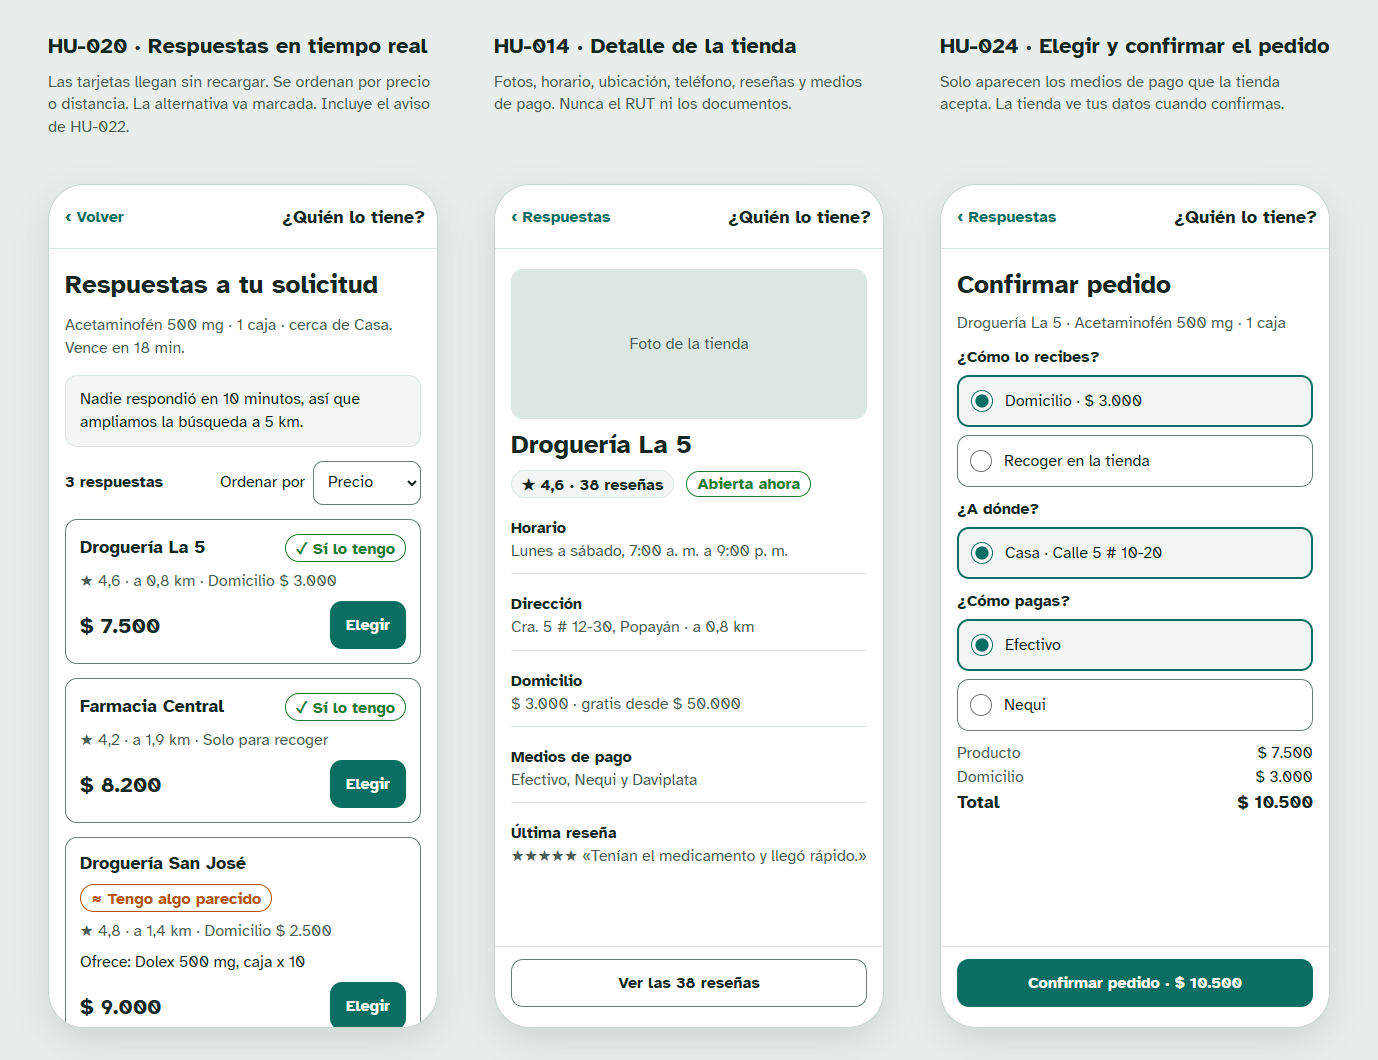
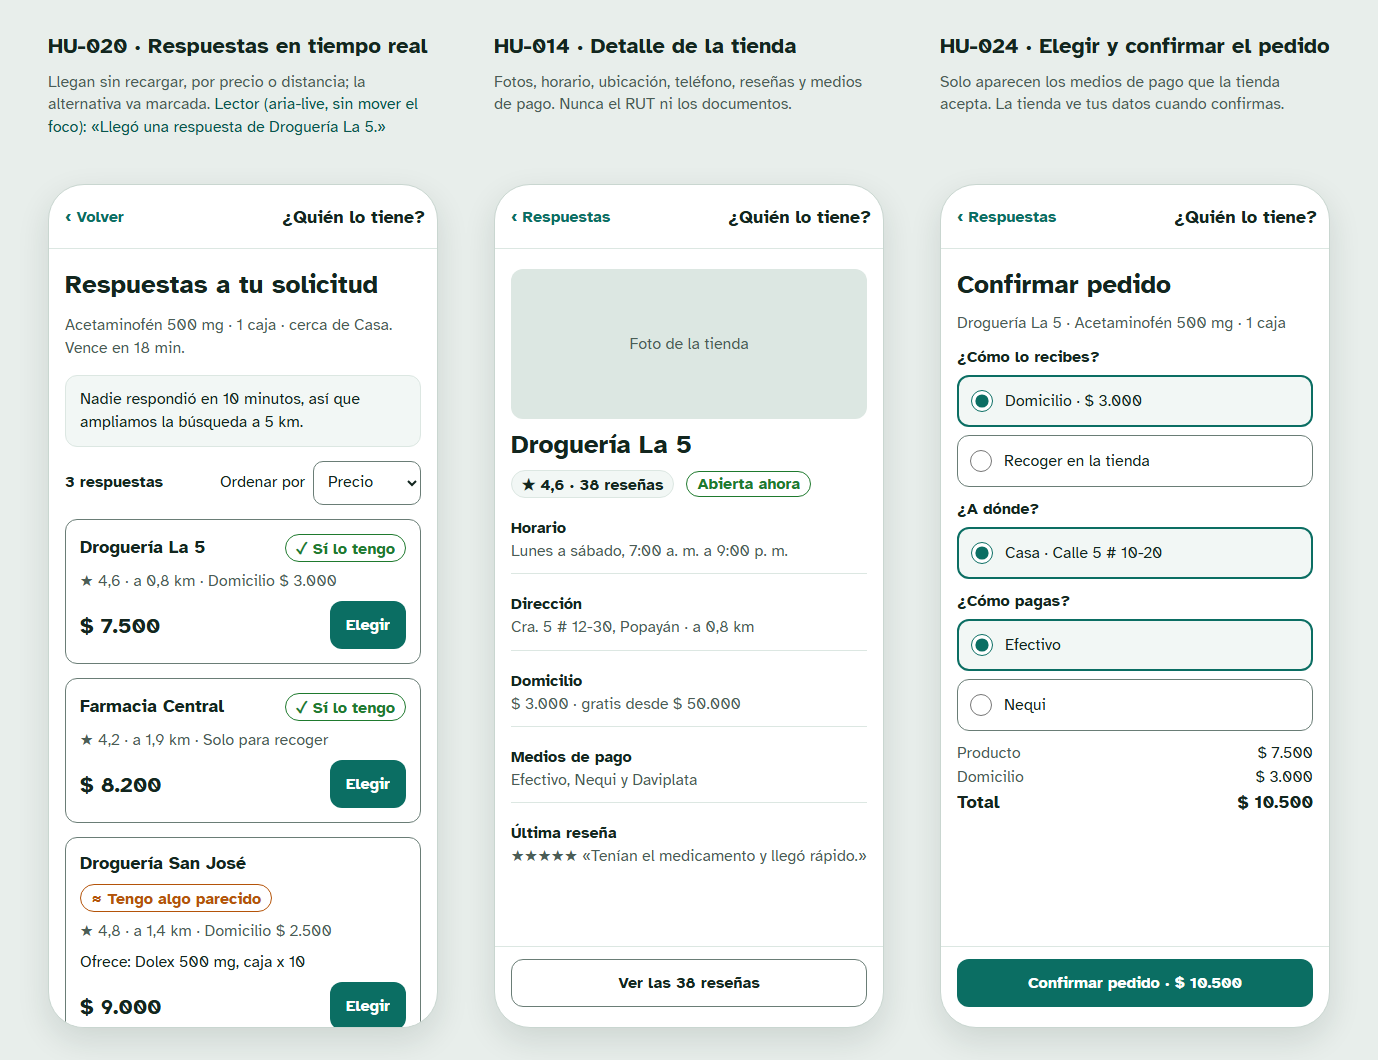
docs(diseno): anotaciones de accesibilidad en los tableros 01, 02 y 05 y cierre de C-20 (#77)
Qué anuncia el lector en HU-018, HU-020 y HU-027, y nota del lienzo sobre
ayuda en el mismo lugar (3.2.6) y foco no tapado (2.4.11). README de
mockups 0.4 y bitácora 1.15.

Changed region(s): [[0.0312, 0.0623, 0.312, 0.1245]]

diff --git a/docs/diseno/mockups/fuente/TiendaSolicitudes.dc.html b/docs/diseno/mockups/fuente/TiendaSolicitudes.dc.html
@@ -16,6 +16,7 @@ a{color:#0b6e63}a:hover{color:#08564d}
 .col{display:flex;flex-direction:column;gap:12px;width:390px;height:996px}
 .etq{margin:0;font-size:22px;font-weight:700}
 .etq-nota{margin:0;font-size:16px;line-height:1.4;color:#4b5d56;min-height:44px}
+.a11y{color:#08564d}
 .tel{margin-top:auto;flex:none;box-sizing:border-box;width:390px;height:844px;background:#ffffff;border-radius:36px;border:1px solid #c9d6d0;overflow:hidden;display:flex;flex-direction:column;box-shadow:0 12px 32px rgba(19,38,31,0.12);position:relative}
 .barra{box-sizing:border-box;height:64px;flex:none;display:flex;align-items:center;justify-content:space-between;gap:8px;padding:0 12px 0 16px;border-bottom:1px solid #dce7e2}
 .marca{margin:0;font-weight:700;font-size:18px}
@@ -58,7 +59,7 @@ input[type=text],textarea{box-sizing:border-box;min-height:48px;border:1px solid
 
 <div class="col">
 <p class="etq">HU-018, HU-030 · Solicitudes nuevas</p>
-<p class="etq-nota">Llegan en 3 s o menos. Las urgentes van primero y suenan. Sin datos del cliente. «No lo tengo» en 1 toque; el aviso dura al menos 5 s y se puede cerrar.</p>
+<p class="etq-nota">Llegan en 3 s o menos; las urgentes van primero y suenan. <span class="a11y">Lector: «Solicitud urgente: «Salbutamol inhalador». Está primero en tu lista.»</span></p>
 <div class="tel">
 <div class="barra"><p class="marca">Droguería La 5</p><span class="estado"><svg width="12" height="12" viewBox="0 0 12 12" aria-hidden="true"><circle cx="6" cy="6" r="6" fill="#1f7a2e"></circle></svg>Abierta</span></div>
 <div class="cont">

diff --git a/docs/diseno/mockups/fuente/Main.dc.html b/docs/diseno/mockups/fuente/Main.dc.html
@@ -16,6 +16,7 @@ a{color:#0b6e63}a:hover{color:#08564d}
 .col{display:flex;flex-direction:column;gap:12px;width:390px;height:996px}
 .etq{margin:0;font-size:22px;font-weight:700}
 .etq-nota{margin:0;font-size:16px;line-height:1.4;color:#4b5d56;min-height:44px}
+.a11y{color:#08564d}
 .tel{margin-top:auto;flex:none;box-sizing:border-box;width:390px;height:844px;background:#ffffff;border-radius:36px;border:1px solid #c9d6d0;overflow:hidden;display:flex;flex-direction:column;box-shadow:0 12px 32px rgba(19,38,31,0.12)}
 .barra{box-sizing:border-box;height:64px;flex:none;display:flex;align-items:center;justify-content:space-between;gap:8px;padding:0 12px 0 16px;border-bottom:1px solid #dce7e2}
 .marca{margin:0;font-weight:700;font-size:18px}
@@ -52,7 +53,7 @@ select{box-sizing:border-box;min-height:44px;border:1px solid #6a7d76;border-rad
 
 <div class="col">
 <p class="etq">HU-020 · Respuestas en tiempo real</p>
-<p class="etq-nota">Las tarjetas llegan sin recargar. Se ordenan por precio o distancia. La alternativa va marcada. Incluye el aviso de HU-022.</p>
+<p class="etq-nota">Llegan sin recargar, por precio o distancia; la alternativa va marcada. <span class="a11y">Lector (aria-live, sin mover el foco): «Llegó una respuesta de Droguería La 5.»</span></p>
 <div class="tel">
 <div class="barra"><button class="volver" type="button" aria-label="Volver a mis solicitudes">‹ Volver</button><p class="marca">¿Quién lo tiene?</p></div>
 <div class="cont">

diff --git a/docs/diseno/mockups/fuente/ClienteOrden.dc.html b/docs/diseno/mockups/fuente/ClienteOrden.dc.html
@@ -16,6 +16,7 @@ a{color:#0b6e63}a:hover{color:#08564d}
 .col{display:flex;flex-direction:column;gap:12px;width:390px;height:996px}
 .etq{margin:0;font-size:22px;font-weight:700}
 .etq-nota{margin:0;font-size:16px;line-height:1.4;color:#4b5d56;min-height:44px}
+.a11y{color:#08564d}
 .tel{margin-top:auto;flex:none;box-sizing:border-box;width:390px;height:844px;background:#ffffff;border-radius:36px;border:1px solid #c9d6d0;overflow:hidden;display:flex;flex-direction:column;box-shadow:0 12px 32px rgba(19,38,31,0.12)}
 .barra{box-sizing:border-box;height:64px;flex:none;display:flex;align-items:center;justify-content:space-between;gap:8px;padding:0 12px 0 16px;border-bottom:1px solid #dce7e2}
 .marca{margin:0;font-weight:700;font-size:18px}
@@ -53,7 +54,7 @@ input[type=text]{box-sizing:border-box;min-height:48px;border:1px solid #6a7d76;
 
 <div class="col">
 <p class="etq">HU-027, HU-029, HU-032 · Pedido en curso</p>
-<p class="etq-nota">El cliente ve cada cambio de estado. Puede cancelar mientras no haya salido y escribir por WhatsApp solo después de elegir.</p>
+<p class="etq-nota">Cada cambio llega sin recargar. Cancelar mientras no haya salido. <span class="a11y">Lector (aria-live, sin mover el foco): «Tu pedido ahora está: En camino.»</span></p>
 <div class="tel">
 <div class="barra"><button class="volver" type="button" aria-label="Volver a mis pedidos">‹ Mis pedidos</button><p class="marca">¿Quién lo tiene?</p></div>
 <div class="cont">

diff --git a/docs/diseno/mockups/README.md b/docs/diseno/mockups/README.md
@@ -1,6 +1,6 @@
 # Mockups de las historias pendientes
 
-> **Control del documento** · Versión 0.3 · 21/11/2026 · Responsable: Monica Anyi Cajas Mellizo (UX · frontend) · Estado: En revisión · Revisión: Pedro, 13/11/2026 (PR #33)
+> **Control del documento** · Versión 0.4 · 21/11/2026 · Responsable: Monica Anyi Cajas Mellizo (UX · frontend) · Estado: En revisión · Revisión: Pedro, 13/11/2026 (PR #33)
 
 Mockups en alta fidelidad de las historias que todavía no tienen pantalla (Sprint 2 en adelante). Las pantallas del Sprint 1 ya están construidas en `frontend/`.
 
@@ -12,7 +12,7 @@ Mockups en alta fidelidad de las historias que todavía no tienen pantalla (Spri
 ## Fuente
 
 - **`fuente/`** guarda el lienzo editable: un archivo `.dc.html` por tablero y `canvas.json` con su posición. Es la fuente de verdad; los PNG se generan desde ahí.
-- Los PNG salieron de los archivos de `fuente/` de su versión, capturados con Edge sin interfaz al tamaño de cada tablero (los 01 a 10 en la 0.2 y los 11 a 13 en la 0.3).
+- Los PNG salieron de los archivos de `fuente/` de su versión, capturados con Edge sin interfaz al tamaño de cada tablero (los 01 a 10 en la 0.2, los 11 a 13 en la 0.3 y los 01, 02 y 05 de nuevo en la 0.4).
 - Los `.dc.html` necesitan el editor de lienzo para verse con sus marcos; abiertos solos en el navegador muestran el contenido sin estilos de marco.
 
 ## Tableros
@@ -67,9 +67,15 @@ Hecho en los tableros 11 a 13:
 - Confirmación de HU-029 (cancelar con motivo) y de HU-037 (suspender con motivo), en el mismo lugar y sin diálogo, y deshacer en HU-038.
 - Anotaciones de accesibilidad: nombre accesible de los botones repetidos («Repetir Paracetamol 500 mg»), qué anuncia cada pantalla nueva (aviso de HU-023 asociado al campo, «quedan 5 minutos» en HU-025, `role="log"` en HU-033, «Quitaste…» en HU-038), remitente y hora en cada mensaje del chat, y a dónde va el foco al confirmar.
 
+Hecho en la versión 0.4 (C-20):
+
+- Qué anuncia el lector de pantalla, sin mover el foco, en los tableros 01, 02 y 05 (texto en verde bajo el título): HU-020 «Llegó una respuesta de Droguería La 5.», HU-027 «Tu pedido ahora está: En camino.» y HU-018 «Solicitud urgente: «Salbutamol inhalador». Está primero en tu lista.». Son los mismos textos de la app.
+- Nota «Accesibilidad en todas las pantallas» en el lienzo, junto a los tableros del Sprint 3:
+  - **3.2.6 Ayuda en el mismo lugar:** la app todavía no tiene un mecanismo de ayuda. Si se agrega (contacto o soporte), va en el mismo sitio del pie en todas las pantallas.
+  - **2.4.11 Foco no tapado:** ya está en la app. `html { scroll-padding-bottom: var(--alto-barra-inferior) }` en `frontend/src/styles/index.css` reserva el alto de la barra inferior fija, así un campo enfocado no queda debajo de ella.
+
 Sigue pendiente:
 
-- Anotar qué anuncia `aria-live` en HU-018, HU-020 y HU-027 (tableros 01, 02 y 05), el enlace de ayuda en el mismo lugar en todas las pantallas (3.2.6) y `scroll-padding` bajo las barras fijas (2.4.11).
 - Columna «Mockup» en `docs/pruebas/libro/07-TRAZABILIDAD.md` para los casos manuales de interfaz, cuando se aprueben estos mockups.
 
 ## Accesibilidad en el diseño
@@ -83,3 +89,4 @@ Textos de 16 px o más, zonas para tocar de 44 × 44 px o más con 8 px entre el
 | 0.1 | 12/11/2026 | Monica Anyi Cajas Mellizo (@monicacajas-art) | Primera versión: 7 tableros con 21 pantallas de 27 historias (PR #33) |
 | 0.2 | 16/11/2026 | Monica Anyi Cajas Mellizo (@monicacajas-art) | Cambios de la revisión del 13/11/2026: tableros 08 a 10 (estados del Sprint 2 y 320 px), HU-019 con «Tengo algo parecido» y respuesta duplicada, HU-020 vacío, HU-021 vencida y no elegida, HU-027 en camino y cancelado, textos de HU-006 y desglose de HU-023, aviso con cierre en HU-018, lienzo fuente en `fuente/`, encabezado de control y decisiones separadas en aprobadas y por aprobar (PR #33) |
 | 0.3 | 21/11/2026 | Monica Anyi Cajas Mellizo (@monicacajas-art) | Tableros 11 a 13 del Sprint 3 (C-15): HU-014 con mapa, HU-023 al publicar, HU-025 vencida, HU-029 confirmar y en camino, HU-033 solo lectura, HU-008 «Mis preguntas» y vacío, confirmar en HU-037 y deshacer en HU-038, con anotaciones de accesibilidad |
+| 0.4 | 21/11/2026 | Monica Anyi Cajas Mellizo (@monicacajas-art) | C-20: qué anuncia el lector en HU-018, HU-020 y HU-027 (tableros 01, 02 y 05) y nota de ayuda en el mismo lugar (3.2.6) y foco no tapado (2.4.11) (PR #77) |

diff --git a/docs/gestion/BITACORA-DEL-PROYECTO.md b/docs/gestion/BITACORA-DEL-PROYECTO.md
@@ -1,6 +1,6 @@
 # Bitácora del proyecto · Quién lo tiene
 
-> **Control del documento** · Versión 1.14 · 21/11/2026 · Responsable: Brayan Grajales Escarraga (Scrum Master) · Estado: Vigente · Procedimiento: [`PROCEDIMIENTO-DE-SEGUIMIENTO.md`](PROCEDIMIENTO-DE-SEGUIMIENTO.md)
+> **Control del documento** · Versión 1.15 · 21/11/2026 · Responsable: Brayan Grajales Escarraga (Scrum Master) · Estado: Vigente · Procedimiento: [`PROCEDIMIENTO-DE-SEGUIMIENTO.md`](PROCEDIMIENTO-DE-SEGUIMIENTO.md)
 
 Registro cronológico de **qué se hizo, cuándo y quién lo hizo** en el proyecto. Cubre los pull requests (sección 2, generada), los hechos que no pasan por un pull request (sección 3) y los compromisos que quedaron abiertos (sección 4). Las desviaciones del plan no se describen aquí: se registran como solicitudes de cambio en [`CONTROL-DE-CAMBIOS.md`](CONTROL-DE-CAMBIOS.md) y aquí solo se cita su número.
 
@@ -156,7 +156,7 @@ Lo que un PR, una reunión o una revisión dejó pendiente. Se cierra con la fec
 | C-17 | Agregar la columna «Mockup» en `docs/pruebas/libro/07-TRAZABILIDAD.md` para los casos manuales de interfaz | PR #33 | Yanimar Burbano Piamba | Después de C-16 | Abierto | |
 | C-18 | Revisar, completar y firmar el borrador de la ejecución del Sprint 2 (libro, recorrido, DEF-006 a DEF-009, la re-prueba del 16/11 de DEF-005 a DEF-009 con el nuevo DEF-010, e informe de cierre del C1) y regenerar el Excel y los Word del libro de QA | Este PR | Yanimar Burbano Piamba, Francisco José Castro Muñoz | 20/11/2026 | Abierto | 18/11/2026: QA y el PO revisaron y están de acuerdo (informado por Pedro); falta la firma de cada uno en el informe de cierre |
 | C-19 | Decidir SC-015 (cierre del C1 el 20/11) | Este PR | Pedro (dueño del proyecto) | 18/11/2026 | Cerrado | 16/11/2026: aprobada por Pedro en el hilo del proyecto |
-| C-20 | Anotar en los mockups qué anuncia `aria-live` en HU-018, HU-020 y HU-027 (tableros 01, 02 y 05), el enlace de ayuda en el mismo lugar en todas las pantallas (WCAG 3.2.6) y el `scroll-padding` bajo las barras fijas (WCAG 2.4.11) | C-15, PR #75 | Monica Anyi Cajas Mellizo | Cierre | Abierto | |
+| C-20 | Anotar en los mockups qué anuncia `aria-live` en HU-018, HU-020 y HU-027 (tableros 01, 02 y 05), el enlace de ayuda en el mismo lugar en todas las pantallas (WCAG 3.2.6) y el `scroll-padding` bajo las barras fijas (WCAG 2.4.11). 21/11/2026: anotados en los tableros 01, 02 y 05 y en una nota del lienzo; 2.4.11 ya estaba en la app y 3.2.6 queda como regla para cuando haya ayuda (README de mockups 0.4) | C-15, PR #75, #77 | Monica Anyi Cajas Mellizo | Cierre | Cerrado | 21/11/2026, PR #77 |
 
 ## Historial del documento
 
@@ -177,3 +177,4 @@ Lo que un PR, una reunión o una revisión dejó pendiente. Se cierra con la fec
 | 1.12 | 18/11/2026 | Daniel Montenegro Almendra (@Daniel0442123) | Hechos del despliegue de `v0.3.1` y de la prueba en producción del 18/11 |
 | 1.13 | 18/11/2026 | Daniel Montenegro Almendra (@Daniel0442123) | Filas #59 a #61; #57 y #58 salieron en `v0.3.1`; hecho del 18/11 (QA y PO de acuerdo con el cierre del C1, DEF-011 cerrado); C-18 actualizado |
 | 1.14 | 21/11/2026 | Monica Anyi Cajas Mellizo (@monicacajas-art) | C-15 cerrado con los mockups del Sprint 3 (#75); C-20 nuevo con las anotaciones de accesibilidad que faltaron |
+| 1.15 | 21/11/2026 | Monica Anyi Cajas Mellizo (@monicacajas-art) | C-20 cerrado con las anotaciones de accesibilidad de los tableros 01, 02 y 05 (#77) |
